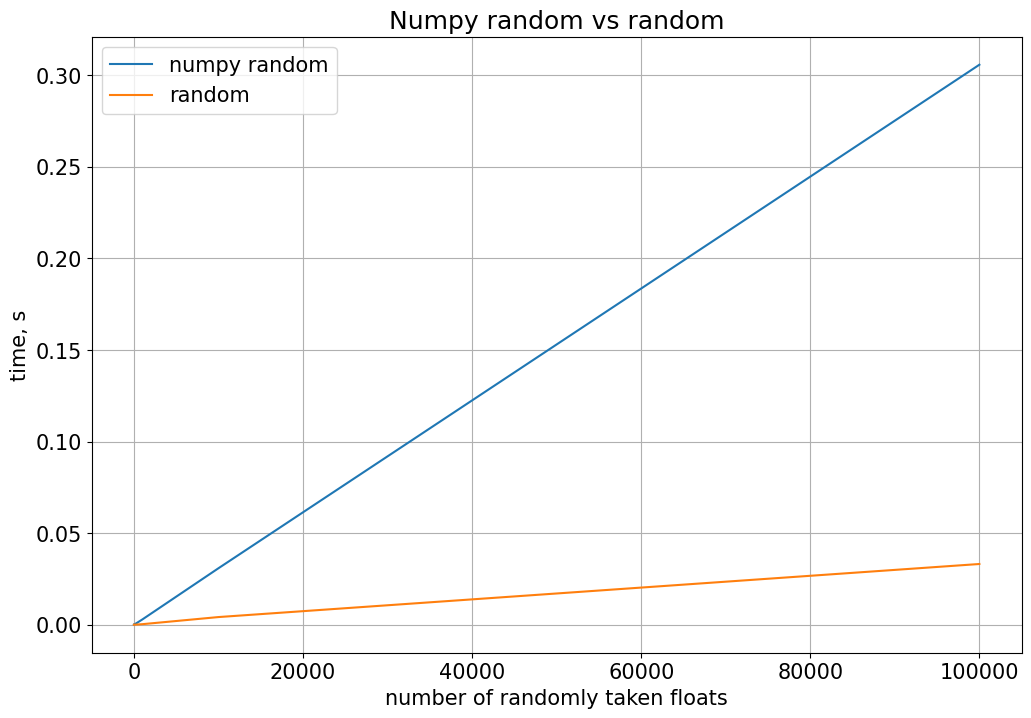
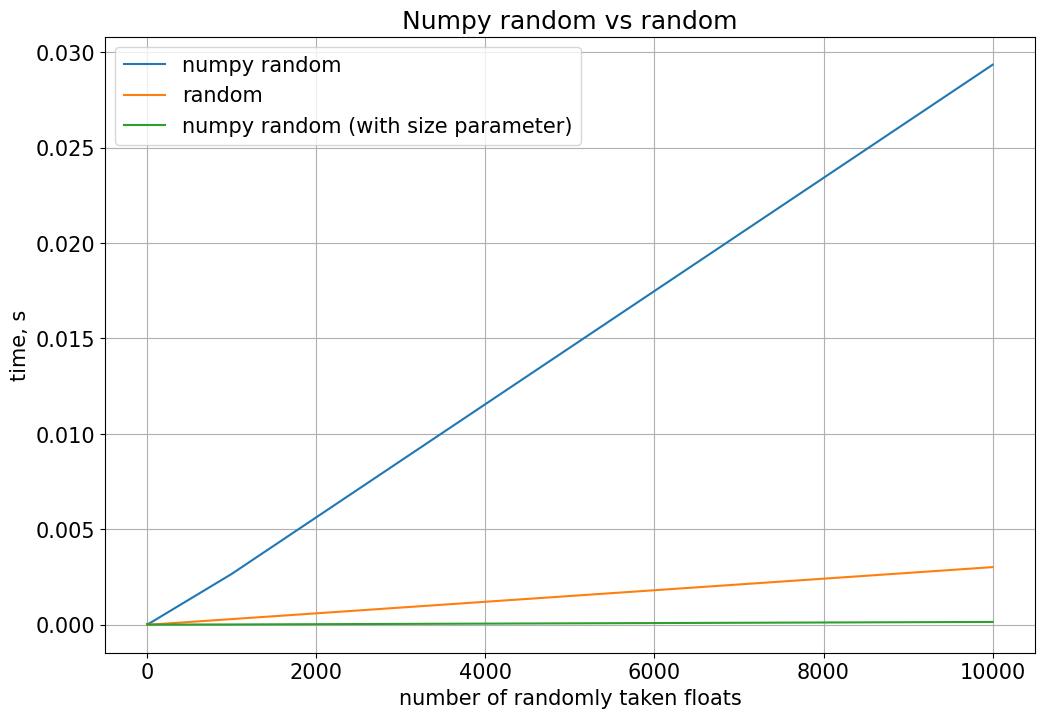
Added measurements for np.random with size argument

diff --git a/1_np_random_time.py b/1_np_random_time.py
@@ -5,28 +5,36 @@ import matplotlib.pyplot as plt
 
 
 def np_random_time(n):
-    np_result, random_result = [], []
+    np_result, random_result, np_size_result = [], [], []
     up = 1
     while up <= n:
-        start = time.time()
+        print(up)
+        start1 = time.time()
+        np.random.uniform(0, 1, size=up)
+        end1 = time.time()
+        np_size_time = end1 - start1
+        np_size_result += [np_size_time]
+        start2 = time.time()
         for i in range(0, up):
             np.random.uniform(0, 1)
-        end = time.time()
-        np_time = end - start
+        end2 = time.time()
+        np_time = end2 - start2
         np_result += [np_time]
-        start = time.time()
+        start3 = time.time()
         for j in range(0, up):
             random.uniform(0, 1)
-        end = time.time()
-        random_time = end - start
+        end3 = time.time()
+        random_time = end3 - start3
         random_result += [random_time]
         up *= 10
-    return np_result, random_result
+    return np_result, random_result, np_size_result
 
 
-res = np_random_time(100000)
+res = np_random_time(10000)
 np_res = res[0]
+print(np_res)
 random_res = res[1]
+np_size_res = res[2]
 xs = [10 ** i for i in range(len(np_res))]
 
 # image size
@@ -37,6 +45,7 @@ plt.rcParams['font.size'] = 15
 # labels are needed for a legend
 plt.plot(xs, np_res, label='numpy random')
 plt.plot(xs, random_res, label='random')
+plt.plot(xs, np_size_res, label='numpy random (with size parameter)')
 
 plt.title('Numpy random vs random')
 
@@ -50,4 +59,5 @@ plt.legend()
 # add grid
 plt.grid()
 
+# plt.show()
 plt.savefig('1_np_random_time.png')
